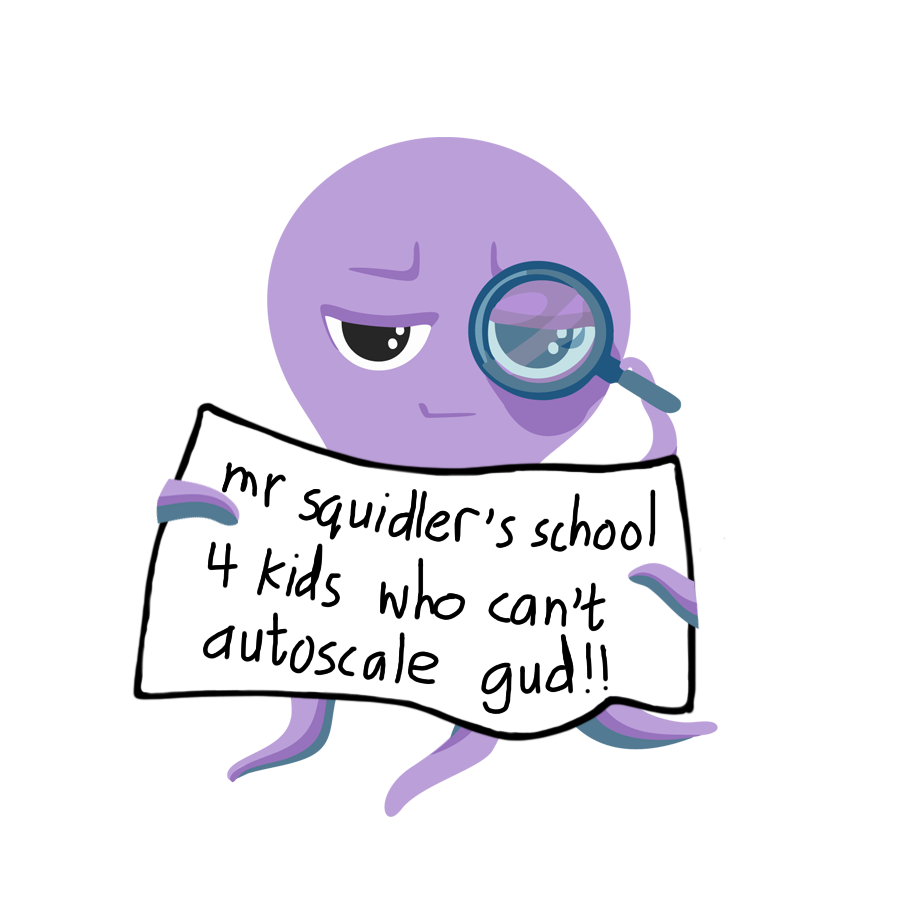
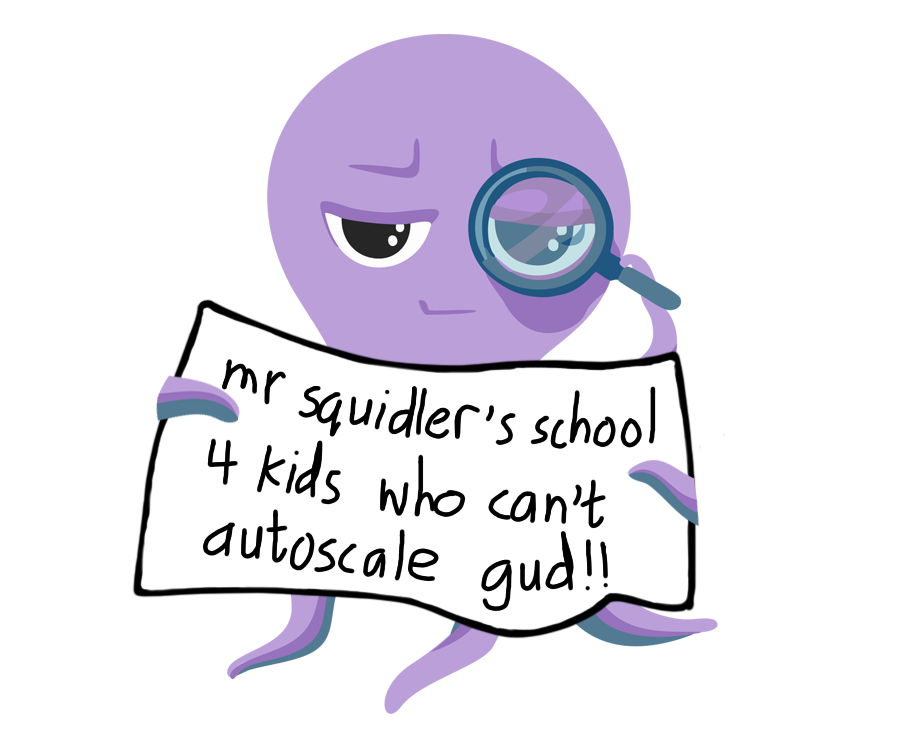
mean time to first byte

Changed region(s): [[0.1244, 0.0311, 0.8089, 0.9648], [0.4044, 0.1867, 0.4667, 0.249]]

diff --git a/acrl/posts/2026-10-05-mean-time-to-first-byte.md b/acrl/posts/2026-10-05-mean-time-to-first-byte.md
@@ -1,0 +1,211 @@
+---
+title: "Key Autoscaling Metric #2 - Mean Time to Stop Sucking"
+authors:
+  - drmorr
+datetime: 2026-10-05 14:30:00
+template: post.html
+---
+
+<figure markdown>
+  ![a picture of a purple octopus holding a sign that says "i don't suck and so can you"](/img/posts/2026-10-05/suck.png)
+  <figcaption>Mr. Squidler's firing on all cylinders today.</figcaption>
+</figure>
+
+Welcome to the second deep dive in our "[Five Key Metrics for Kubernetes Autoscaling](2026-09-22-five-key-metrics.md)"
+series!  In last [week's post](2026-09-28-autoscaling-metric-1-workload-committed.md), Ian broke down the node workload
+committed capacity metric: how this is a useful proxy for "wasted money" and why nobody is actually computing this
+correctly.  In _this_ week's post, we're going to do the same thing, but on the flip side of the cost-reliability coin.
+Specifically, how can your autoscaling behaviour impact the actual end-user experience for your application?
+
+We're going to do this via a metric that nobody's ever heard of before, called "Mean Time to Stop Sucking" (MTSS).  Just
+like in last week's post, I'm going to argue that, despite the name, this is a _real_ metric that you _ought_ to be
+tracking in your autoscaler, and then explain why nobody does[^1].
+
+But first, let's revisit the "cost-reliability" coin, since it's been a minute[^2] since we've talked about it.
+
+## Heads, it's cheap.  Tails, it's not broken.
+
+Like I mentioned in the intro post, there are two reasons why you might be interested in autoscaling: cost, and capacity
+planning.  The first reason is the one that everybody talks about, but in my favorite thought experiment of all time, I
+can make your infrastructure _extremely_ cheap by turning it all off.  Or, I can make your infrastructure extremely
+robust and reliable by provisioning a [c7i.48xlarge](https://aws.amazon.com/ec2/instance-types/c7i/) for every pod in
+your cluster, but I don't think your CFO will like that very much.  Ideally you'd like your infrastructure to be
+"somewhat" cheap, but also "somewhat" reliable, but how do you know where you are on that curve?
+
+Ian's post last week covered the "cheap" side of things; this week and next week we'll cover the "reliability" aspect.
+I'm actually going to break "reliability" into two sub-components, that is, "scaling up" and "scaling down", because
+they're both important and you need to measure different things for them.  On scale up, you need to know if your users'
+experience is degraded (and for how long) because it's taking you too long to provision new capacity.  On scale down,
+you need to know if your users' experience is degraded because they were actively doing work and your autoscaler rudely
+interrupted them.
+
+So there you have it: autoscaling metrics two and three!  We're all done here, you can go home now.
+
+## "Mean Time to Thing" metrics considered ~~harmful~~ awesome
+
+Just kidding.  Let's talk more about scaling up.  In Kubernetes, this is how it works: your vibe-coded project gets
+posted to the orange site and all of a sudden five million AI bros are hitting your homepage.  Unfortunately, you only
+have two pods backing that homepage; so those pods' CPU utilization goes through the roof, but fortunately you
+configured the Horizontal Pod Autoscaler (HPA) to watch for overloaded pods, so after sending back a few million 503s, a
+bunch of new Kubernetes pods get created.  Unfortunately, you're still on the AWS free tier, so you've only got a single
+`t3.medium` instance, and it's all full!  However, you _did_ actually set up Karpenter to scale up more nodes, so it
+sees all these pending pods and requests some GPU instances from AWS, because your vibe-coded app needs GPU instances to
+display your home page for some reason.  Sadly, Anthropic has sucked up all the GPU instances so it takes 10 minutes to
+get some, but this is a fine and normal experience these days.  ANYWAYS, once you've finally gotten your compute
+hardware, your pods can get scheduled on them---just kidding, actually you have to install 10 years of security updates
+before Kubelet will start.  NOW your pods can start!
+
+<figure markdown>
+  ![A bar chart showing the breakdown of steps in scaling up your application; the labels are "pending pods created",
+"node provisioning", "node configuration management", "kubernetes scheduling loop", "pod startup", and "application
+readiness"](/img/posts/2026-10-05/mtss.png)
+  <figcaption>All the steps your infrastructure needs to take before your user can see a cat picture.</figcaption>
+</figure>
+
+You're done, right?  Your users can now click buttons on your vibe-coded home page?  Ha!  Hahahaha!  Nope.  Sadly,
+Claude Code wrote your app in Java, which means it takes another five minutes to load your entire database into memory,
+and do all of the JIT compilation things, and then _finally_ the AI bros can see a vibe-coded picture of a cat.
+
+<figure markdown>
+  ![An extremely poorly drawn picture of a cat; the colors are horrendous and none of the strokes are within the lines](/img/posts/2026-10-05/cat.png)
+  <figcaption>
+    I kid you not, this is the image that ChatGPT made for me when I asked for a cat.  I actually had to
+    refine it a couple of times.
+  </figcaption>
+</figure>
+
+OK, so this situation probably isn't great, but how can you make it better?  Well, the first step is, you need a metric
+to game!  In most organizations that I've worked at, the metric folks look at is "time from pending pod to scheduled
+pod"[^3].  Even _this_ metric is somewhat challenging to track, but Karpenter, at least, has an alpha timeseries called
+`karpenter_pods_unbound_time_seconds`, which tracks the time from pod creation to pod binding.
+
+But as you can see, this metric _really_ doesn't capture the performance of your autoscaling.  In fact, mostly what this
+metric captures is the cloud provider provisioning delay.  That's, like, a tiny fraction of what your user cares about!
+So in the post, I'd like to propose a different metric, called "Mean Time to Stop Sucking": this is the length of time
+between when a user _makes a request_ and when their user experience stops being utter dogshit[^4].
+
+## WAHHHHHH, that's so hard to measure, I don't wanna!
+
+I've been in a number of these conversations with folks, and whenever I've pitched this as a metric to monitor, most
+people have said something to the effect of "That's a really hard metric to measure, and also we don't have control over
+half the things in there.  We should just monitor the bits we have control over."
+
+And, like, excuse me.  You're _distributed systems engineers_.  Your literal job description is to do hard things.  And
+also: there's _lots_ of stuff in life you don't have any control over, but you monitor anyways[^5].  The first step to
+"improving things" is ~~asking Claude to fix your broken everything~~ understanding them.  If you don't _understand_
+where all the delays in your scaling are coming from, how on earth do you meaningfully expect to do anything about them?
+
+Anyways, maybe that's a little bit unfair.  This _is_ actually a really hard thing to measure, at least in a useful way;
+if you just measure MTSS as a single number, you know that things are bad, but you don't understand why things are
+bad.  But to understand _why_ things are bad, you need to correlate/connect events from multiple different sources.
+You need to know when your users make requests, which you probably don't have a good way to track unless you're running
+some kind of service mesh.  You need to link that time to your horizontal autoscaler response, which is based on a bunch
+of aggregated metrics data from cAdvisor.  Then you need to connect the HPA scaling behaviour to your cluster autoscaler
+response, and _finally_ you need to understand your application performance on startup.  So that's like, five different
+metrics you need to track just to track one single metric[^6]!
+
+The good news is, with various distributed tracing infrastructure, you actually _can_ track all of this stuff and get a
+good breakdown of your scaling activity.  Setting up the distributed tracing infrastructure is left as an exercise for
+the reader.
+
+## We have achieved suckitude!  Now what???
+
+So OK, now you understand a) that your application sucks, and b) _why_ your application sucks.  How do you make it suck
+less?  Step one is the hardest step: "convincing your CEO that having an application that sucks is bad for business."
+But this isn't an advice column, so I'm not going to dig into that one any further.
+
+What I _will_ talk about is how you, as (purportedly) a member of your platform team, can have a positive impact on your
+scaling up time.  It might feel like you don't have many levers to pull, but it turns out there's actually quite a lot
+you can do here!  Here are some ideas:
+
+1. **Use a faster node autoscaler**: as I pointed out a long, long time ago, there is [a marked difference in scaling speed
+   between the Kubernetes Cluster Autoscaler and Karpenter](2024-09-16-simkube-kca-karpenter-part-2.md ).  There's a
+   pretty good chance that "just" switching to Karpenter is going to have a noticeable improvement on your cluster
+   scaling speed.  You don't even have to be on AWS for this, there's a [Azure Karpenter Provider](https://github.com/Azure/karpenter-provider-azure)
+   that's been around for a couple years now, and even a [GCP Karpenter Provider](https://github.com/cloudpilot-ai/karpenter-provider-gcp)!
+2. **Optimize your node provisioning time**: most of the cloud providers are "pretty fast" at providing you with hardware
+   when you ask for it[^7].  And yet, the number of folks I've talked to who are like "it takes 5+ minutes for a node to
+   become available" is _incredibly_ high.  It turns out that as much as we talk wanting about our compute hardware to
+   be [cattle, not pets](https://cloudscaling.com/blog/cloud-computing/the-history-of-pets-vs-cattle/), actually _doing_
+   that is, well, pretty hard.  So usually when a new node comes up, there's a lot of "stuff" that needs to be done
+   before it can join your Kubernetes cluster: installing OS security updates, node configuration based on environment
+   (prod vs staging), region (US vs somewhere else), etc.  All of that stuff takes time, and if you can make it go
+   faster then you can improve your MTSS.  I don't have a ton of specific advice here because it likely depends on a lot
+   of specific architectural decisions you've made about your infrastructure, but one thing I've seen be effective for
+   some organizations is to [bake as much of your architecture into an AMI as possible](2026-04-13-boy-ami-glad-to-see-you.md).
+3. **Use a faster horizontal autoscaler**: one of the more common reasons[^8] that folks reach for [KEDA](https://keda.sh)
+   is that you can configure the metrics evaluation loop to be more performant than the vanilla HPA.  The more often you
+   evaluate your metrics, the faster you can react to changes in those metric values.
+4. **Use better horizontal scaling metrics**: in what is the definition of the word "irony", every platform engineer on
+   the planet will tell you that you [should not scale on pod CPU utilization](https://www.youtube.com/watch?v=gSiGFH4ZnS8),
+   and also every platform engineer on the planet scales their pods on CPU utilization.  If you scale on something else
+   (requests per second, queue depth, really anything at all is better than CPU utilization), you're going to have an
+   earlier signal that load is increasing, which means you're going to have an earlier response time, and your
+   application is going to suck less.  KEDA is also a great choice if you want to scale on arbitrary non-CPU metrics.
+5. **Scale your entire dependency chain at once**: this lever is the corollary to #4.  A very common pattern is that in
+   your microservice architecture, you have a chain of dependencies, \(A \to B \to C \to D\).  Service \(A\) starts
+   getting increased load based on user requests, which it eventually solves by scaling up.  Service \(B\) then starts
+   getting increased load based on requests from service \(A\), so then _it_ starts scaling up.  This continues until
+   service \(D\) has scaled up, and then---and _only_ then---will your users stop seeing errors.  The better way to do
+   this is to scale your entire dependency chain at once as soon as service \(A\) starts seeing increased load.  The
+   hard part here is identifying what your dependency chains are, but there was a [very cool paper](https://www.usenix.org/system/files/osdi20-qiu.pdf)
+   published a few years ago that provides some insights on how to do this.
+6. **Make your application start faster**: I'm pretty sure that you, as a putative platform engineer, had a visceral
+   reaction when I said this.  "But we don't control the application code, bro!  Those are the product teams, and we try
+   as hard as possible to never talk to them!"  Well, OK, I think I've identified one problem in your organization
+   already.  But also, even if you absolutely can't change anything at all about your application code, there's still
+   stuff here you can change: how many init containers are you running in your pods?  How many sidecars are you running
+   that all need to be healthy before your pod readiness check succeeds[^9]?  Maybe get rid of some of those.
+7. **Use a predictive autoscaler**: this is the thing that literally everybody jumps to.  "If we could just _predict_ when
+   our load is going to occur, then we don't have to do any of the hard work of actually making our application suck
+   less!"  I think folks really like this approach because it sounds sexy as hell, and also probably because
+   implementing a predictive autoscaler is likely going to get you a promotion.  But unfortunately I have bad news and
+   worse news for you: a) you're probably never going to get it right, because doing predictive autoscaling is really,
+   really, really hard to do well, and b) even if you _do_ get it right, it's probably not going to solve all your
+   problems[^10].  That's not to say that predictive autoscaling is _always_ a bad idea or that it's _never_ going to
+   work well, but it wouldn't be the first thing I reach for in my toolbox.  However, if you _do_ decide to go this
+   route, I recommend paying a vendor instead of trying to implement it yourself: there are a couple vendors who do this
+   really well, and about 67 other vendors who do it extremely poorly, and if you pay me a bunch of money I might tell
+   you which is which.
+
+So anyways, there you have it, ACRL's simple seven-step guide to making your application scaling suck less!  Tune in
+next time to find out all our secret strategies for scaling back down once you no longer need less suckage.
+
+As always, thanks for reading!
+
+~drmorr
+
+[^1]: tldr: it's hard and people are lazy
+
+[^2]: Like, probably, literally a minute, this is all I ever talk about in real life, people come up to me all the time
+    and are like "David won't you shut up about cost and reliability already?"  Probably the only thing I talk about
+    more is [layers](https://blog.appliedcomputing.io/p/thoughts-on-scheduling-and-autoscaling).
+
+[^3]: I'm just kidding, most organizations I've worked at don't look at metrics.
+
+[^4]: BTW, there're a bunch of interesting/related metrics in the frontend space: the "normal" one folks use there is
+    ["first contentful paint"](https://web.dev/articles/fcp).  There are various modules in React/Vue/whatever
+    vibe-coded Javascript-framework-of-the-week you're using that provide this metric, but these don't work for services
+    that don't necessarily "paint" things---and while I've never used them, I'm reasonably certain that none of these
+    front-end services have any way to measure or attribute delays in your infrastructure scaling.
+
+    There is another closely-related metric called "Mean Time to First Byte", which is the length of time between a user
+    request and the first byte that the application returns, but this also isn't quite appropriate here because
+    sometimes your Kubernetes apps aren't necessarily "returning bytes".
+
+[^5]: The weather app on your phone would like a word.
+
+[^6]: And then once you've started tracking all of these metrics, your observability team is going to complain at you
+    incessantly about how expensive it all is, but thems the breaks.
+
+[^7]: Again, unless you need a GPU, in which case you're SOL, say it with me now, "Thanks, Anthropic".
+
+[^8]: The other incredibly common reason that folks reach for KEDA is that, up until a few months ago, KEDA was the only
+    open-source pod autoscaler that supported "scaling to zero", which is, when you think about it, is kind of bonkers.
+    Anyways, HPA now supports [scale to zero](https://kubernetes.io/blog/2026/09/02/kubernetes-v1-37-hpa-scale-to-zero-beta/).
+
+[^9]: If the answer to these questions is "under 10", congratulations, you're already doing better than most everybody
+    else out there.
+
+[^10]: Well, except for getting you that promotion.  It's virtually guaranteed to do that, even if the autoscaler never
+    works.

diff --git a/acrl/posts/2026-09-28-autoscaling-metric-1-workload-committed.md b/acrl/posts/2026-09-28-autoscaling-metric-1-workload-committed.md
@@ -6,7 +6,7 @@ datetime: 2026-09-28 11:00:00
 template: post.html
 ---
 <figure markdown>
-  !["Mr. Squiddler holding a sign that says "can u fit in the kube??"](/img/posts/can-you-fit.png)
+  !["Mr. Squiddler holding a sign that says "can u fit in the kube??"](/img/posts/2026-09-28/can-you-fit.png)
   <figcaption>Remembering a little fun we had at KubeCon 2025 ATL
     <a href="https://youtube.com/shorts/ZDlQzhAl8zI">video here</a>.
   </figcaption>
@@ -95,7 +95,7 @@ short, big, small, squares, and rectangles creating many inefficiencies in the p
 
 <figure markdown>
   !["Two dimensional conceptual node diagram with CPU and memory for axes. Showing differently sized workload requests,
-  DaemonSet requests, system reservations, and uncommitted capacity."](/img/posts/2d-bin-packing.png)
+  DaemonSet requests, system reservations, and uncommitted capacity."](/img/posts/2026-09-28/2d-bin-packing.png)
   <figcaption> Learn how to make this graph and many more at drmorr's
     <a href="https://osacon.io/sessions/2026/10-useful-dashboards-you-cant-make-with-grafana/">OSAcon talk</a>
     this November!</figcaption>
@@ -136,7 +136,7 @@ metric. We exclude DaemonSets from the numerator so as DaemonSet overhead rises 
 <figure markdown>
   !["Bar chart showing provisioned capacity, allocatable capacity, total pod requests, non-DaemonSet workload requests,
   and usage. Committed capacity includes DaemonSet requests; workload commitment excludes them. Both use provisioned
-  capacity as the denominator."](/img/posts/where-does-all-the-capacity-go.png)
+  capacity as the denominator."](/img/posts/2026-09-28/where-does-all-the-capacity-go.png)
   <figcaption>"utilization" is between ~44 and ~72%. Feel free to choose whichever one gets you a raise.</figcaption>
 </figure>
 
